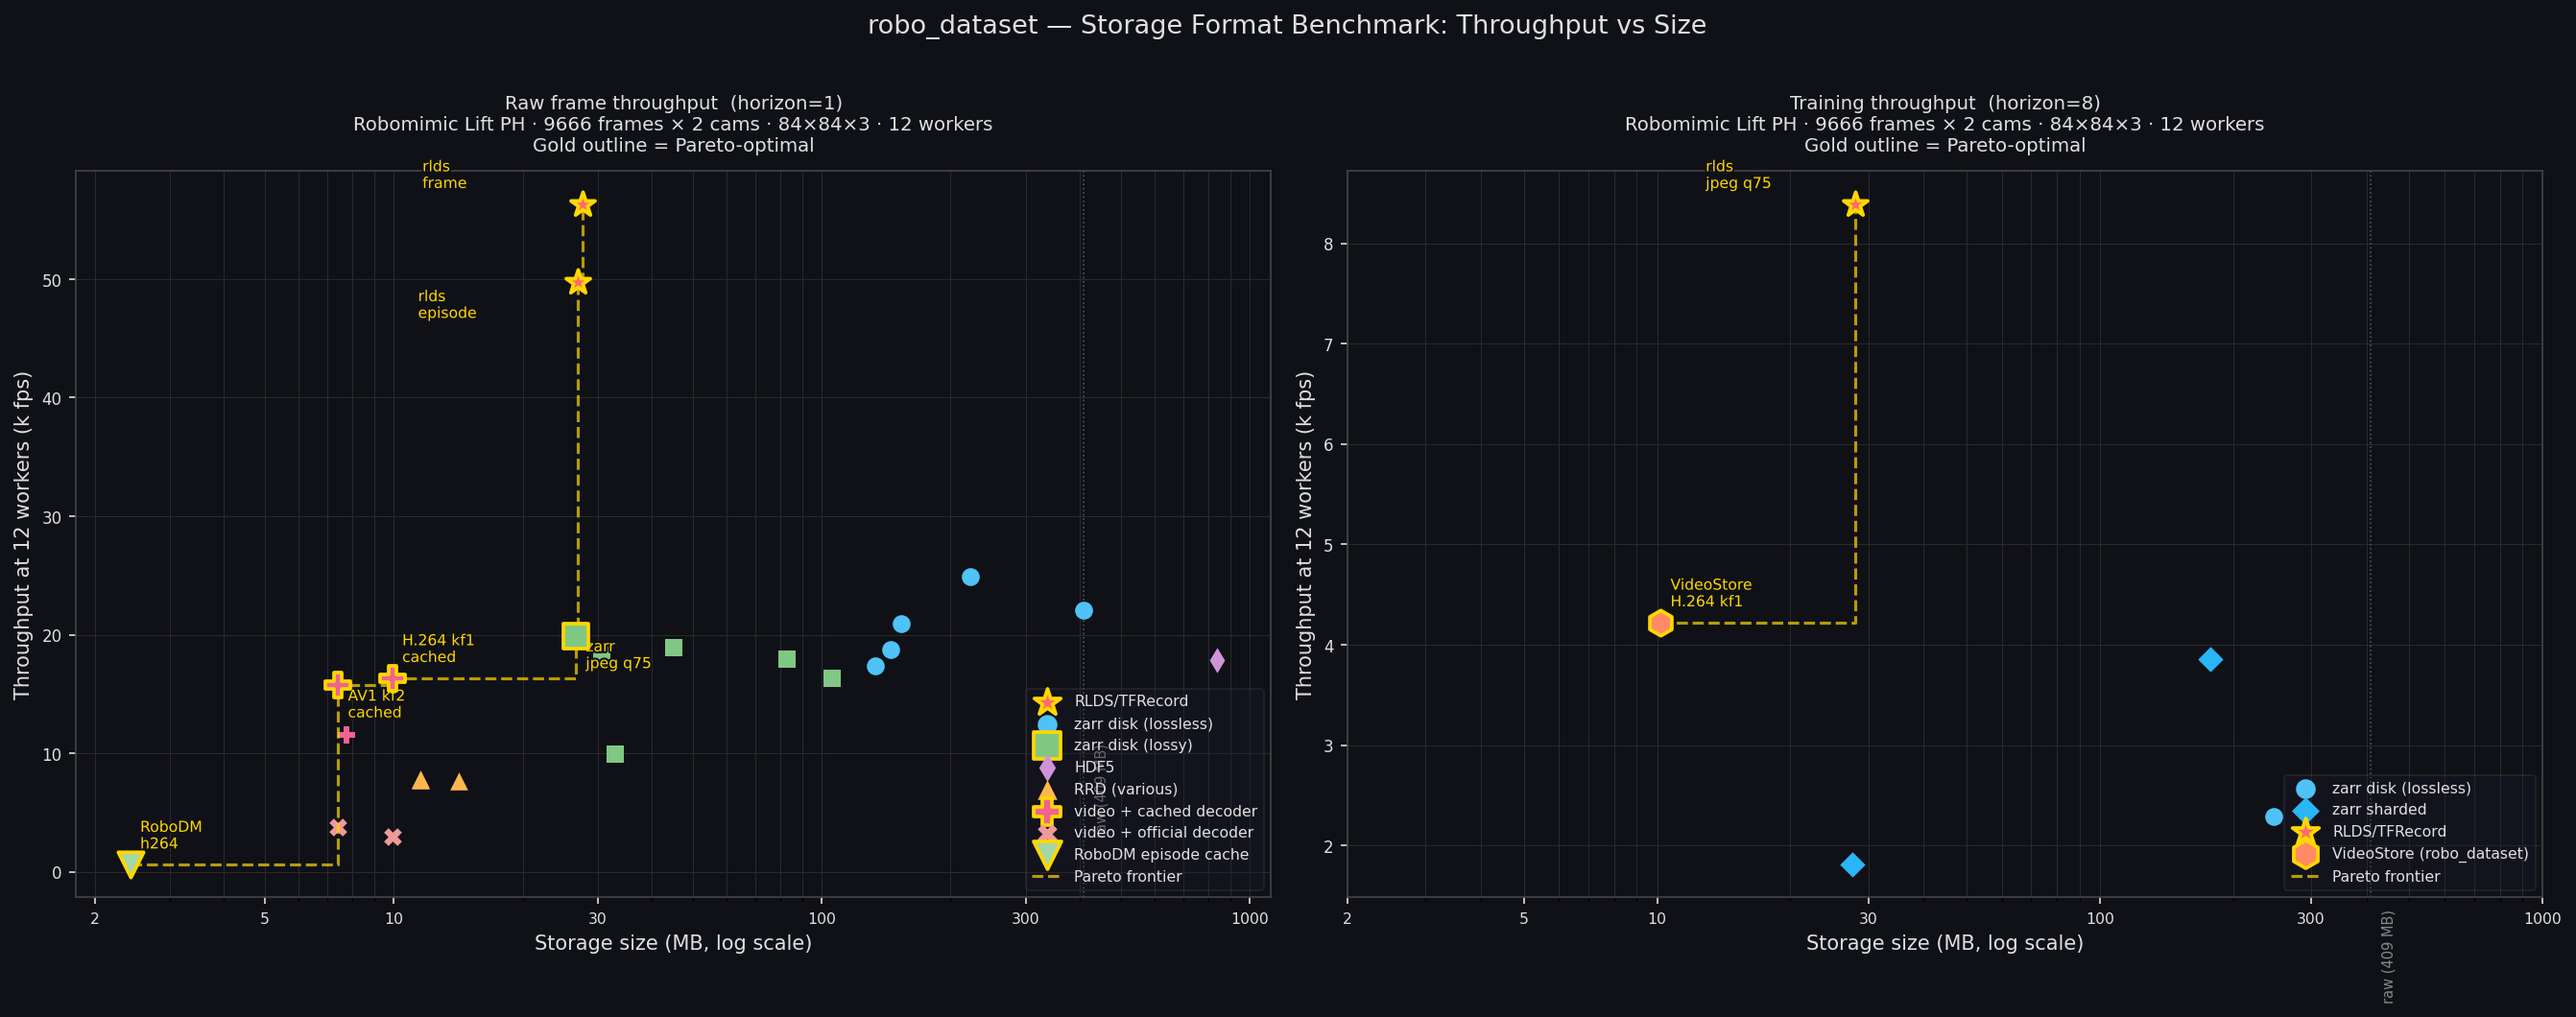
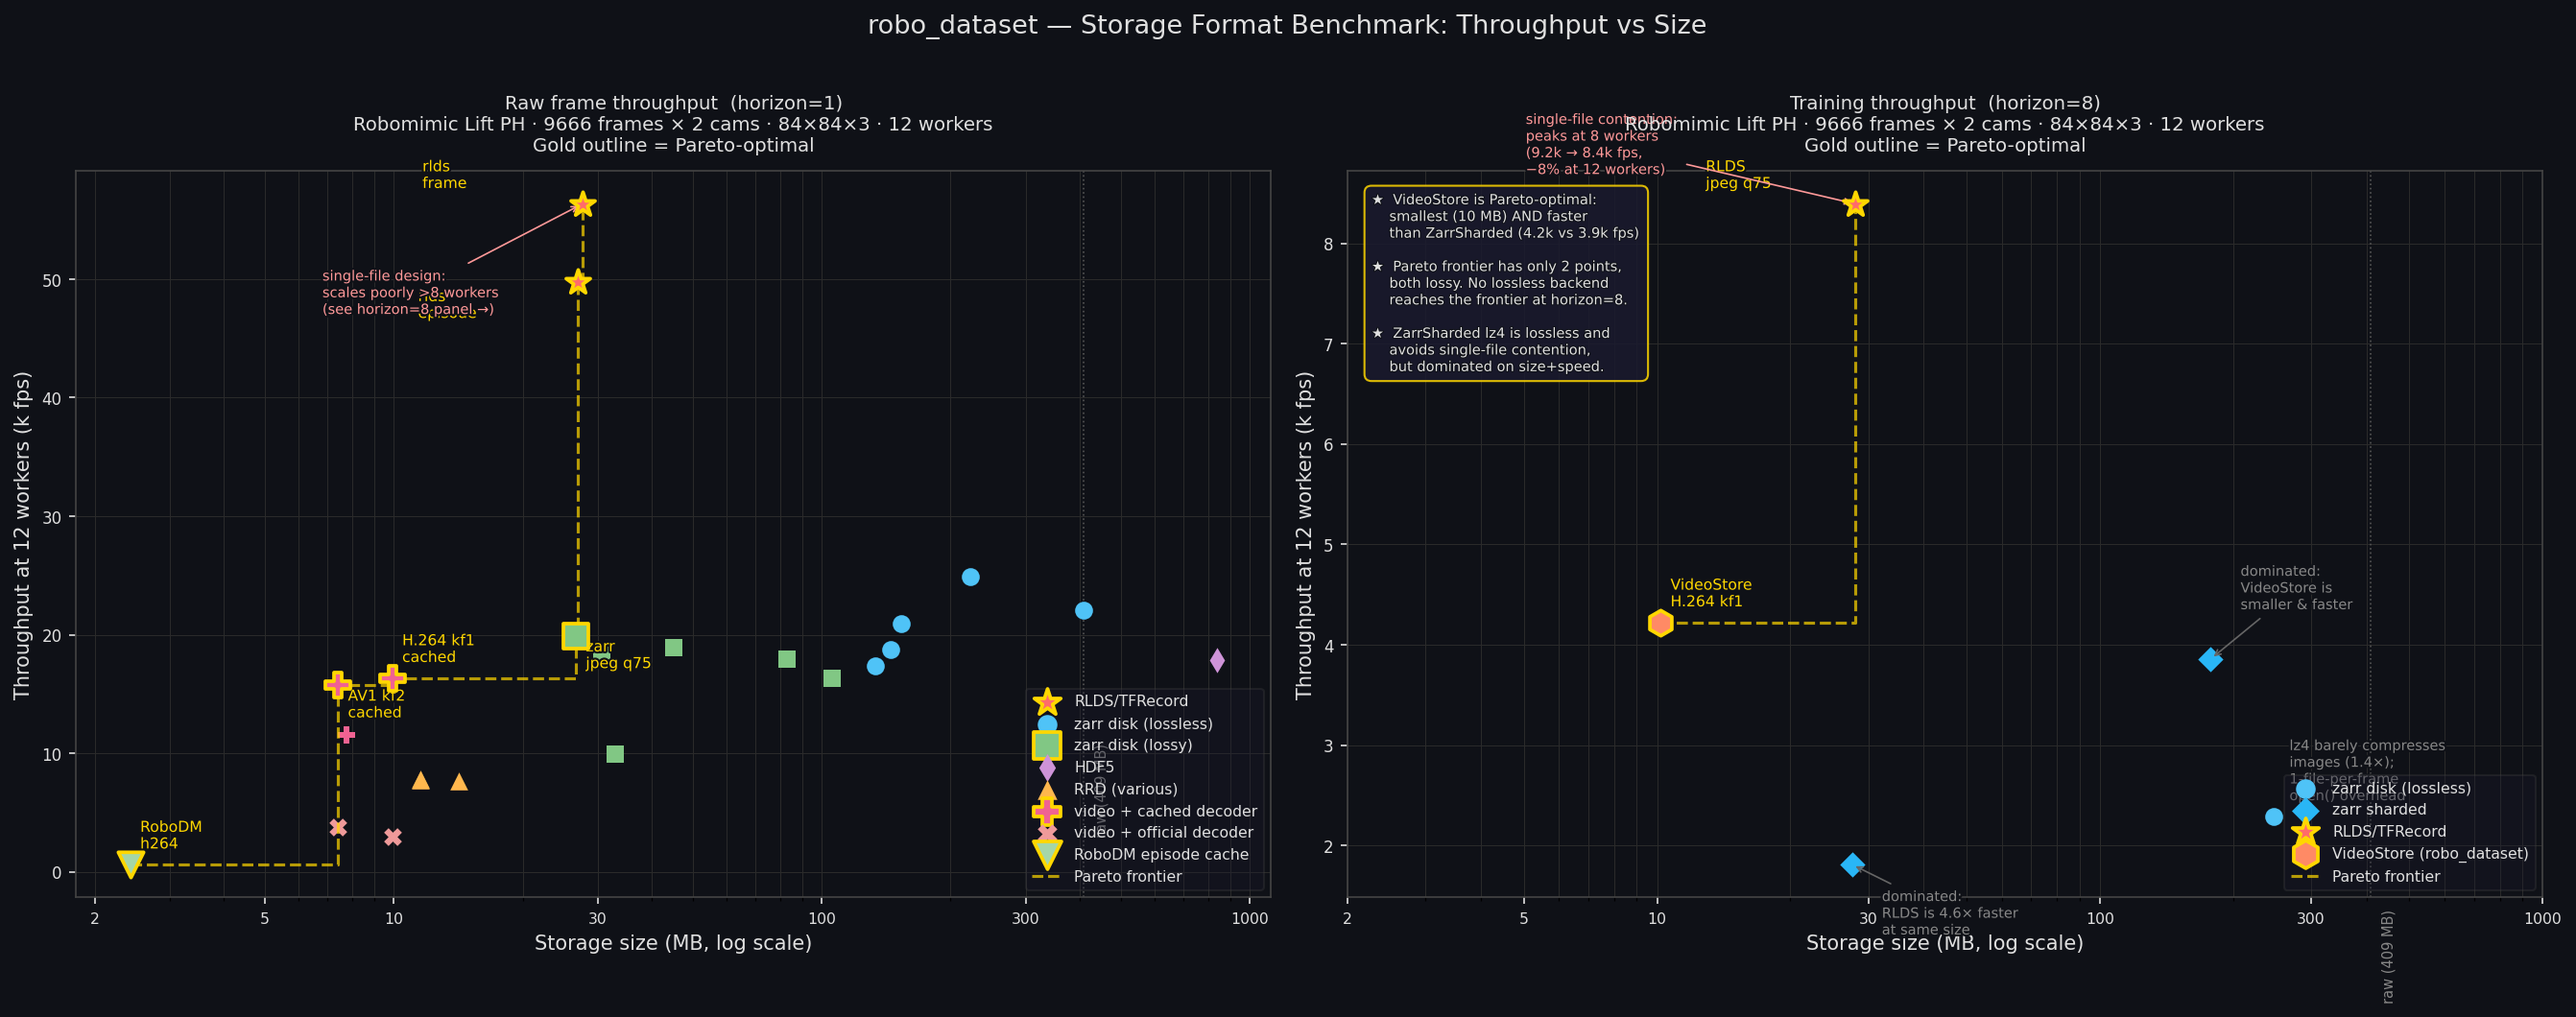
Annotate Pareto plot with findings: dominated backends, RLDS scaling, VideoStore position
- Right panel: annotate ZarrSharded lz4 as dominated by VideoStore (smaller+faster)
- Right panel: annotate ZarrSharded jpeg as dominated by RLDS at same size
- Right panel: annotate RLDS single-file contention (peaks 8 workers, −8% at 12)
- Right panel: note zarr_disk lz4 dual bottleneck (1.4× compression + open() overhead)
- Right panel: summary textbox — VideoStore Pareto-optimal; only 2 Pareto points, both lossy
- Left panel: annotate RLDS single-file design caveat with cross-reference to right panel
- Save output to both robo_dataset/media/ and diffusion_policy/media/

diff --git a/tools/make_pareto_plot.py b/tools/make_pareto_plot.py
@@ -3,6 +3,8 @@
 Two panels:
   Left  — horizon=1 raw-frame benchmark (existing storage/lerobot/rlds/rrd data)
   Right — horizon=8 training-scenario benchmark (acceleration benchmark data)
+
+Key findings annotated directly on the plot.
 """
 import json
 import pathlib
@@ -10,6 +12,7 @@ import matplotlib
 matplotlib.use('Agg')
 import matplotlib.pyplot as plt
 import matplotlib.patheffects as pe
+import matplotlib.patches as mpatches
 import matplotlib.ticker
 import numpy as np
 
@@ -33,6 +36,7 @@ rrd_by_label  = {r['label']: r for r in rrd['results']}
 lero_by_label = {r['label']: r for r in lero['results']}
 rlds_by_label = {r['label']: r for r in rlds['results'] if r['label'] != 'zarr_disk_jpeg_q75'}
 accel_fps12   = accel['dataloader_fps']['12']
+accel_fps8    = accel['dataloader_fps']['8']   # for RLDS scaling note
 
 
 def _dir_size_mb(path):
@@ -42,6 +46,10 @@ def _dir_size_mb(path):
 # ── Styling ────────────────────────────────────────────────────────────────
 BG = '#0F1117'
 FG = '#E0E0E0'
+ANNOT_KW = dict(fontsize=7.5, color='#AAAAAA',
+                path_effects=[pe.withStroke(linewidth=2, foreground=BG)])
+FINDING_KW = dict(fontsize=7.5, color='#FFD700',
+                  path_effects=[pe.withStroke(linewidth=2, foreground=BG)])
 
 CATS = {
     'rlds':           dict(color='#FF6B6B', marker='*',  label='RLDS/TFRecord'),
@@ -136,69 +144,68 @@ def _draw_panel(ax, entries, title, raw_mb=None):
     ax.legend(loc='lower right', fontsize=7.5, framealpha=0.3,
               facecolor='#1A1A2E', edgecolor='#444', labelcolor=FG, markerscale=1.1)
 
+    return pareto_idx
 
-# ── Panel A: horizon=1 raw-frame benchmark ─────────────────────────────────
+
+# ── Panel A entries ────────────────────────────────────────────────────────
 entries_h1 = [
-    # RLDS
     dict(mb=rlds_by_label['rlds_frame_jpeg_q75']['size_mb'],
          fps=fps12(rlds_by_label['rlds_frame_jpeg_q75']),
          cat='rlds', label='rlds\nframe', lbl_offset=(-80, 8)),
     dict(mb=rlds_by_label['rlds_episode_jpeg_q75']['size_mb'],
          fps=fps12(rlds_by_label['rlds_episode_jpeg_q75']),
          cat='rlds', label='rlds\nepisode', lbl_offset=(-80, -18)),
-    # zarr lossless
     dict(mb=main_by_label['zarr_disk_raw']['size_mb'],      fps=fps12(main_by_label['zarr_disk_raw']),      cat='zarr_lossless'),
     dict(mb=main_by_label['zarr_disk_lz4']['size_mb'],      fps=fps12(main_by_label['zarr_disk_lz4']),      cat='zarr_lossless'),
     dict(mb=main_by_label['zarr_disk_zstd_l1']['size_mb'],  fps=fps12(main_by_label['zarr_disk_zstd_l1']),  cat='zarr_lossless'),
     dict(mb=main_by_label['zarr_disk_zstd_l3']['size_mb'],  fps=fps12(main_by_label['zarr_disk_zstd_l3']),  cat='zarr_lossless'),
     dict(mb=main_by_label['zarr_disk_zstd_l9']['size_mb'],  fps=fps12(main_by_label['zarr_disk_zstd_l9']),  cat='zarr_lossless'),
-    # zarr lossy
-    dict(mb=main_by_label['zarr_disk_jpeg_q75']['size_mb'], fps=fps12(main_by_label['zarr_disk_jpeg_q75']), cat='zarr_lossy',
-         label='zarr\njpeg q75', lbl_offset=(5, -16)),
+    dict(mb=main_by_label['zarr_disk_jpeg_q75']['size_mb'], fps=fps12(main_by_label['zarr_disk_jpeg_q75']),
+         cat='zarr_lossy', label='zarr\njpeg q75', lbl_offset=(5, -16)),
     dict(mb=main_by_label['zarr_disk_jpeg_q85']['size_mb'], fps=fps12(main_by_label['zarr_disk_jpeg_q85']), cat='zarr_lossy'),
     dict(mb=main_by_label['zarr_disk_jpeg_q95']['size_mb'], fps=fps12(main_by_label['zarr_disk_jpeg_q95']), cat='zarr_lossy'),
     dict(mb=main_by_label['zarr_disk_j2k_q50']['size_mb'],  fps=fps12(main_by_label['zarr_disk_j2k_q50']),  cat='zarr_lossy'),
     dict(mb=main_by_label['zarr_disk_png']['size_mb'],      fps=fps12(main_by_label['zarr_disk_png']),      cat='zarr_lossy'),
     dict(mb=main_by_label['zarr_disk_webp_q75']['size_mb'], fps=fps12(main_by_label['zarr_disk_webp_q75']), cat='zarr_lossy'),
-    # HDF5
-    dict(mb=main_by_label['hdf5_disk']['size_mb'], fps=fps12(main_by_label['hdf5_disk']), cat='hdf5'),
-    # RRD
-    dict(mb=rrd_by_label['rrd_ep_jpeg75']['size_mb'],         fps=fps12(rrd_by_label['rrd_ep_jpeg75']),          cat='rrd'),
-    dict(mb=rrd_by_label['rrd_jpeg75_ram_preload']['size_mb'],fps=fps12(rrd_by_label['rrd_jpeg75_ram_preload']),  cat='rrd'),
-    dict(mb=rrd_by_label['rrd_server_to_numpy']['size_mb'],   fps=fps12(rrd_by_label['rrd_server_to_numpy']),    cat='rrd'),
-    # video cached
+    dict(mb=main_by_label['hdf5_disk']['size_mb'],          fps=fps12(main_by_label['hdf5_disk']),          cat='hdf5'),
+    dict(mb=rrd_by_label['rrd_ep_jpeg75']['size_mb'],          fps=fps12(rrd_by_label['rrd_ep_jpeg75']),          cat='rrd'),
+    dict(mb=rrd_by_label['rrd_jpeg75_ram_preload']['size_mb'], fps=fps12(rrd_by_label['rrd_jpeg75_ram_preload']), cat='rrd'),
+    dict(mb=rrd_by_label['rrd_server_to_numpy']['size_mb'],    fps=fps12(rrd_by_label['rrd_server_to_numpy']),   cat='rrd'),
     dict(mb=lero_by_label['h264_kf1_cached']['size_mb'], fps=fps12(lero_by_label['h264_kf1_cached']),
          cat='video_cached', label='H.264 kf1\ncached', lbl_offset=(5, 8)),
     dict(mb=lero_by_label['h264_kf2_cached']['size_mb'], fps=fps12(lero_by_label['h264_kf2_cached']), cat='video_cached'),
     dict(mb=lero_by_label['av1_kf2_cached']['size_mb'],  fps=fps12(lero_by_label['av1_kf2_cached']),
          cat='video_cached', label='AV1 kf2\ncached', lbl_offset=(5, -16)),
-    # video official
     dict(mb=lero_by_label['h264_kf1_official']['size_mb'], fps=fps12(lero_by_label['h264_kf1_official']), cat='video_official'),
     dict(mb=lero_by_label['av1_kf2_official']['size_mb'],  fps=fps12(lero_by_label['av1_kf2_official']),  cat='video_official'),
-    # RoboDM
     dict(mb=main_by_label['robodm_h264_crf28']['size_mb'], fps=fps12(main_by_label['robodm_h264_crf28']),
          cat='robodm', label='RoboDM\nh264', lbl_offset=(5, 8)),
 ]
 
-# ── Panel B: horizon=8 training-scenario benchmark ─────────────────────────
+# ── Panel B entries ────────────────────────────────────────────────────────
 BENCH_ROOT = '/mnt/ssdB/erik/cupid_data/robo_dataset_bench'
 
+_vs_mb   = _dir_size_mb(f'{BENCH_ROOT}/videostore_mb')   if pathlib.Path(f'{BENCH_ROOT}/videostore_mb').exists() else _dir_size_mb(f'{BENCH_ROOT}/h264_kf1_crf23')
+_vs_fps  = accel_fps12['h264_kf1_crf23']
+_rlds_mb = _dir_size_mb(f'{BENCH_ROOT}/rlds_jpeg_q75')
+_rlds_fps12 = accel_fps12['rlds_jpeg_q75']
+_rlds_fps8  = accel_fps8['rlds_jpeg_q75']
+_shard_mb  = _dir_size_mb(f'{BENCH_ROOT}/zarr_sharded_cf8')
+_shard_fps = accel_fps12['zarr_sharded_lz4']
+_sjpeg_mb  = _dir_size_mb(f'{BENCH_ROOT}/zarr_sharded_jpeg_q75')
+_sjpeg_fps = accel_fps12['zarr_sharded_jpeg']
+_zdisk_mb  = _dir_size_mb(f'{BENCH_ROOT}/zarr_disk_lz4')
+_zdisk_fps = accel_fps12['zarr_disk_lz4']
+
 entries_h8 = [
-    dict(mb=_dir_size_mb(f'{BENCH_ROOT}/zarr_disk_lz4'),
-         fps=accel_fps12['zarr_disk_lz4'],
-         cat='zarr_lossless', label='zarr disk\nlz4', lbl_offset=(5, 8)),
-    dict(mb=_dir_size_mb(f'{BENCH_ROOT}/zarr_sharded_cf8'),
-         fps=accel_fps12['zarr_sharded_lz4'],
-         cat='zarr_sharded', label='zarr sharded\nlz4 cf=8', lbl_offset=(5, 8)),
-    dict(mb=_dir_size_mb(f'{BENCH_ROOT}/zarr_sharded_jpeg_q75'),
-         fps=accel_fps12['zarr_sharded_jpeg'],
-         cat='zarr_sharded'),
-    dict(mb=_dir_size_mb(f'{BENCH_ROOT}/rlds_jpeg_q75'),
-         fps=accel_fps12['rlds_jpeg_q75'],
-         cat='rlds', label='rlds\njpeg q75', lbl_offset=(-75, 8)),
-    dict(mb=_dir_size_mb(f'{BENCH_ROOT}/h264_kf1_crf23'),
-         fps=accel_fps12['h264_kf1_crf23'],
-         cat='video_store', label='VideoStore\nH.264 kf1', lbl_offset=(5, 8)),
+    dict(mb=_zdisk_mb,  fps=_zdisk_fps,  cat='zarr_lossless'),
+    dict(mb=_shard_mb,  fps=_shard_fps,  cat='zarr_sharded',
+         label='zarr sharded\nlz4  cf=8', lbl_offset=(5, 8)),
+    dict(mb=_sjpeg_mb,  fps=_sjpeg_fps,  cat='zarr_sharded'),
+    dict(mb=_rlds_mb,   fps=_rlds_fps12, cat='rlds',
+         label='RLDS\njpeg q75', lbl_offset=(-75, 8)),
+    dict(mb=_vs_mb,     fps=_vs_fps,     cat='video_store',
+         label='VideoStore\nH.264 kf1', lbl_offset=(5, 8)),
 ]
 
 # ── Build figure ────────────────────────────────────────────────────────────
@@ -215,12 +222,90 @@ _draw_panel(
     raw_mb=409,
 )
 
+# annotation on left panel: RLDS single-file caveat
+rlds_h1_fps = fps12(rlds_by_label['rlds_frame_jpeg_q75']) / 1000
+rlds_h1_mb  = rlds_by_label['rlds_frame_jpeg_q75']['size_mb']
+ax1.annotate(
+    'single-file design:\nscales poorly >8 workers\n(see horizon=8 panel →)',
+    xy=(rlds_h1_mb, rlds_h1_fps),
+    xytext=(-130, -55), textcoords='offset points',
+    fontsize=7, color='#FF9999', ha='left',
+    arrowprops=dict(arrowstyle='->', color='#FF9999', lw=0.8),
+    path_effects=[pe.withStroke(linewidth=2, foreground=BG)],
+)
+
 _draw_panel(
     ax2, entries_h8,
     'Training throughput  (horizon=8)\n'
     'Robomimic Lift PH · 9666 frames × 2 cams · 84×84×3 · 12 workers\n'
     'Gold outline = Pareto-optimal',
     raw_mb=409,
+)
+
+# ── Right-panel findings annotations ──────────────────────────────────────
+
+# 1. ZarrSharded lz4 dominated by VideoStore
+ax2.annotate(
+    'dominated:\nVideoStore is\nsmaller & faster',
+    xy=(_shard_mb, _shard_fps / 1000),
+    xytext=(15, 25), textcoords='offset points',
+    fontsize=7, color='#888888', ha='left',
+    arrowprops=dict(arrowstyle='->', color='#666666', lw=0.8),
+    path_effects=[pe.withStroke(linewidth=2, foreground=BG)],
+)
+
+# 2. ZarrSharded jpeg dominated by RLDS at same size
+ax2.annotate(
+    'dominated:\nRLDS is 4.6× faster\nat same size',
+    xy=(_sjpeg_mb, _sjpeg_fps / 1000),
+    xytext=(15, -35), textcoords='offset points',
+    fontsize=7, color='#888888', ha='left',
+    arrowprops=dict(arrowstyle='->', color='#666666', lw=0.8),
+    path_effects=[pe.withStroke(linewidth=2, foreground=BG)],
+)
+
+# 3. RLDS multi-worker scaling regression
+_rlds_drop_pct = (_rlds_fps8 - _rlds_fps12) / _rlds_fps8 * 100
+ax2.annotate(
+    f'single-file contention:\npeaks at 8 workers\n({_rlds_fps8/1000:.1f}k → {_rlds_fps12/1000:.1f}k fps,\n−{_rlds_drop_pct:.0f}% at 12 workers)',
+    xy=(_rlds_mb, _rlds_fps12 / 1000),
+    xytext=(-165, 15), textcoords='offset points',
+    fontsize=7, color='#FF9999', ha='left',
+    arrowprops=dict(arrowstyle='->', color='#FF9999', lw=0.8),
+    path_effects=[pe.withStroke(linewidth=2, foreground=BG)],
+)
+
+# 4. zarr disk not competitive
+ax2.annotate(
+    'lz4 barely compresses\nimages (1.4×);\n1-file-per-frame\nopen() overhead',
+    xy=(_zdisk_mb, _zdisk_fps / 1000),
+    xytext=(8, 8), textcoords='offset points',
+    fontsize=7, color='#888888', ha='left',
+    path_effects=[pe.withStroke(linewidth=2, foreground=BG)],
+)
+
+# 5. VideoStore finding box
+_box_txt = (
+    '★  VideoStore is Pareto-optimal:\n'
+    '    smallest (10 MB) AND faster\n'
+    '    than ZarrSharded (4.2k vs 3.9k fps)\n'
+    '\n'
+    '★  Pareto frontier has only 2 points,\n'
+    '    both lossy. No lossless backend\n'
+    '    reaches the frontier at horizon=8.\n'
+    '\n'
+    '★  ZarrSharded lz4 is lossless and\n'
+    '    avoids single-file contention,\n'
+    '    but dominated on size+speed.'
+)
+ax2.text(
+    0.02, 0.97, _box_txt,
+    transform=ax2.transAxes,
+    fontsize=7, color=FG, va='top', ha='left',
+    bbox=dict(boxstyle='round,pad=0.5', facecolor='#1A1A2E',
+              edgecolor='#FFD700', alpha=0.85),
+    path_effects=[pe.withStroke(linewidth=1, foreground=BG)],
+    zorder=10,
 )
 
 fig.suptitle(
@@ -230,6 +315,9 @@ fig.suptitle(
 
 plt.tight_layout()
 
-out = '/home/erbauer/diffusion_policy/media/storage_benchmark_pareto.png'
-plt.savefig(out, dpi=150, bbox_inches='tight', facecolor=BG)
-print(f'Saved → {out}')
+out_repo   = '/home/erbauer/robo_dataset/media/storage_benchmark_pareto.png'
+out_shared = '/home/erbauer/diffusion_policy/media/storage_benchmark_pareto.png'
+plt.savefig(out_repo,   dpi=150, bbox_inches='tight', facecolor=BG)
+plt.savefig(out_shared, dpi=150, bbox_inches='tight', facecolor=BG)
+print(f'Saved → {out_repo}')
+print(f'Saved → {out_shared}')
